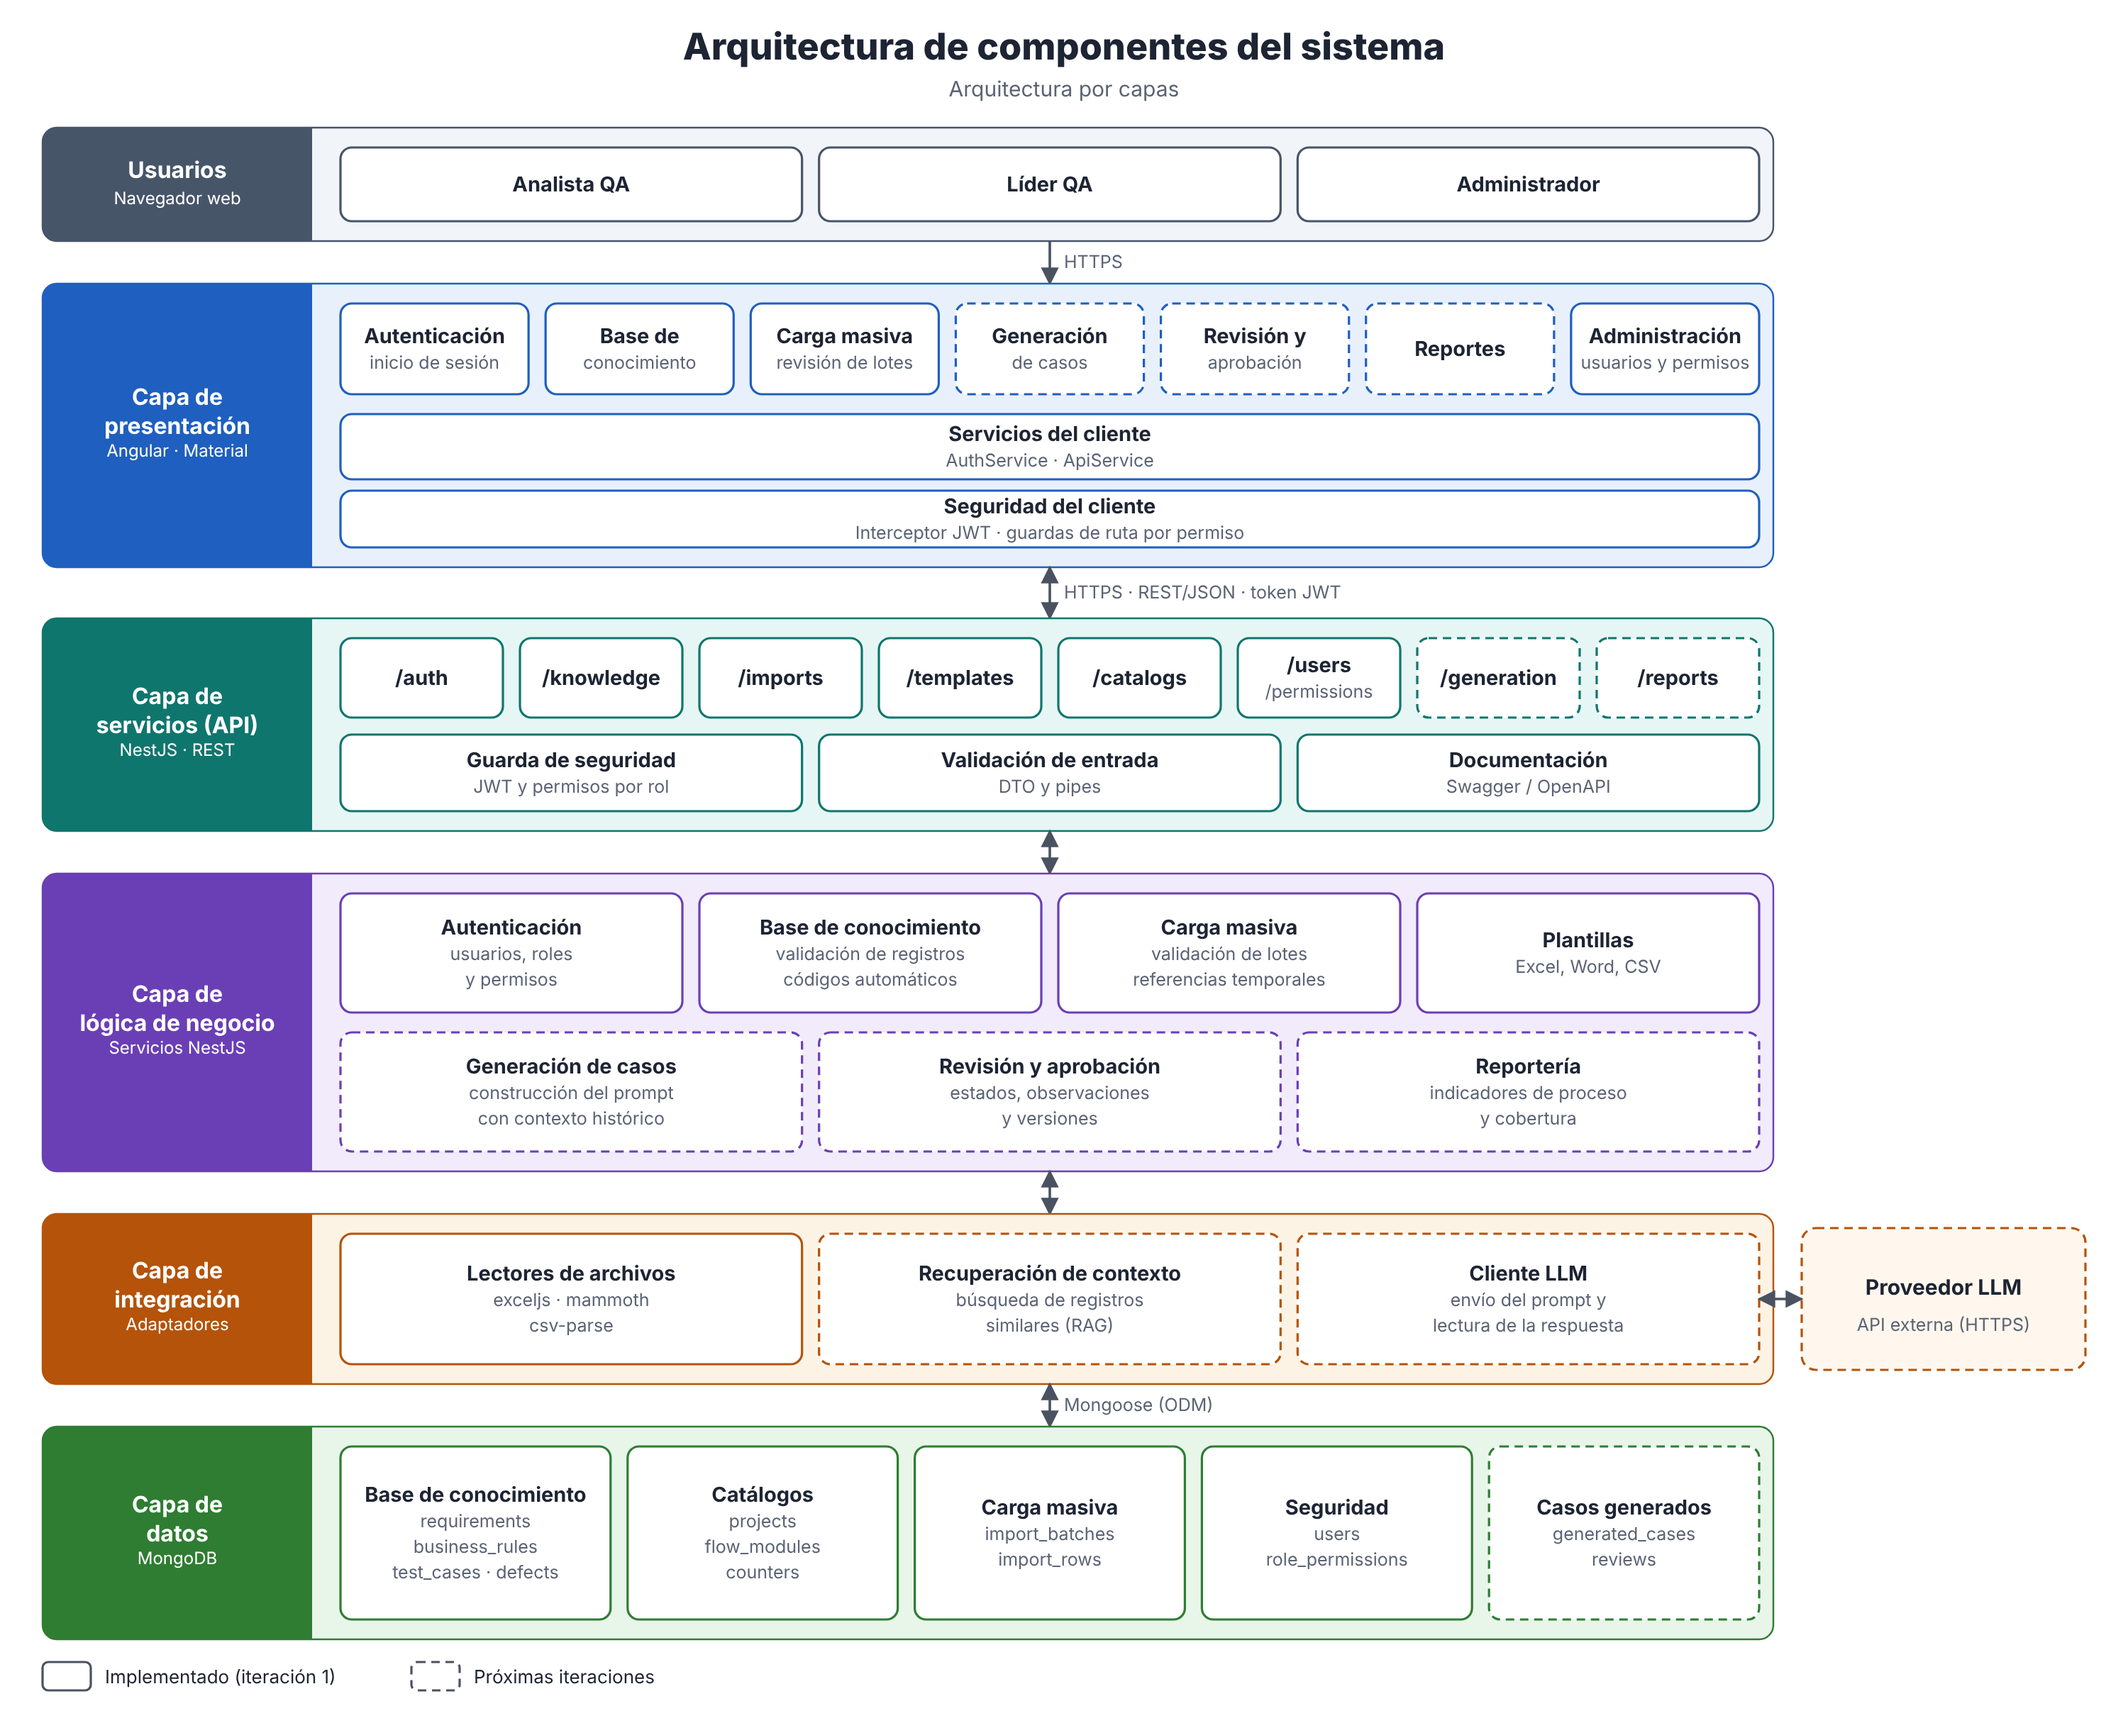
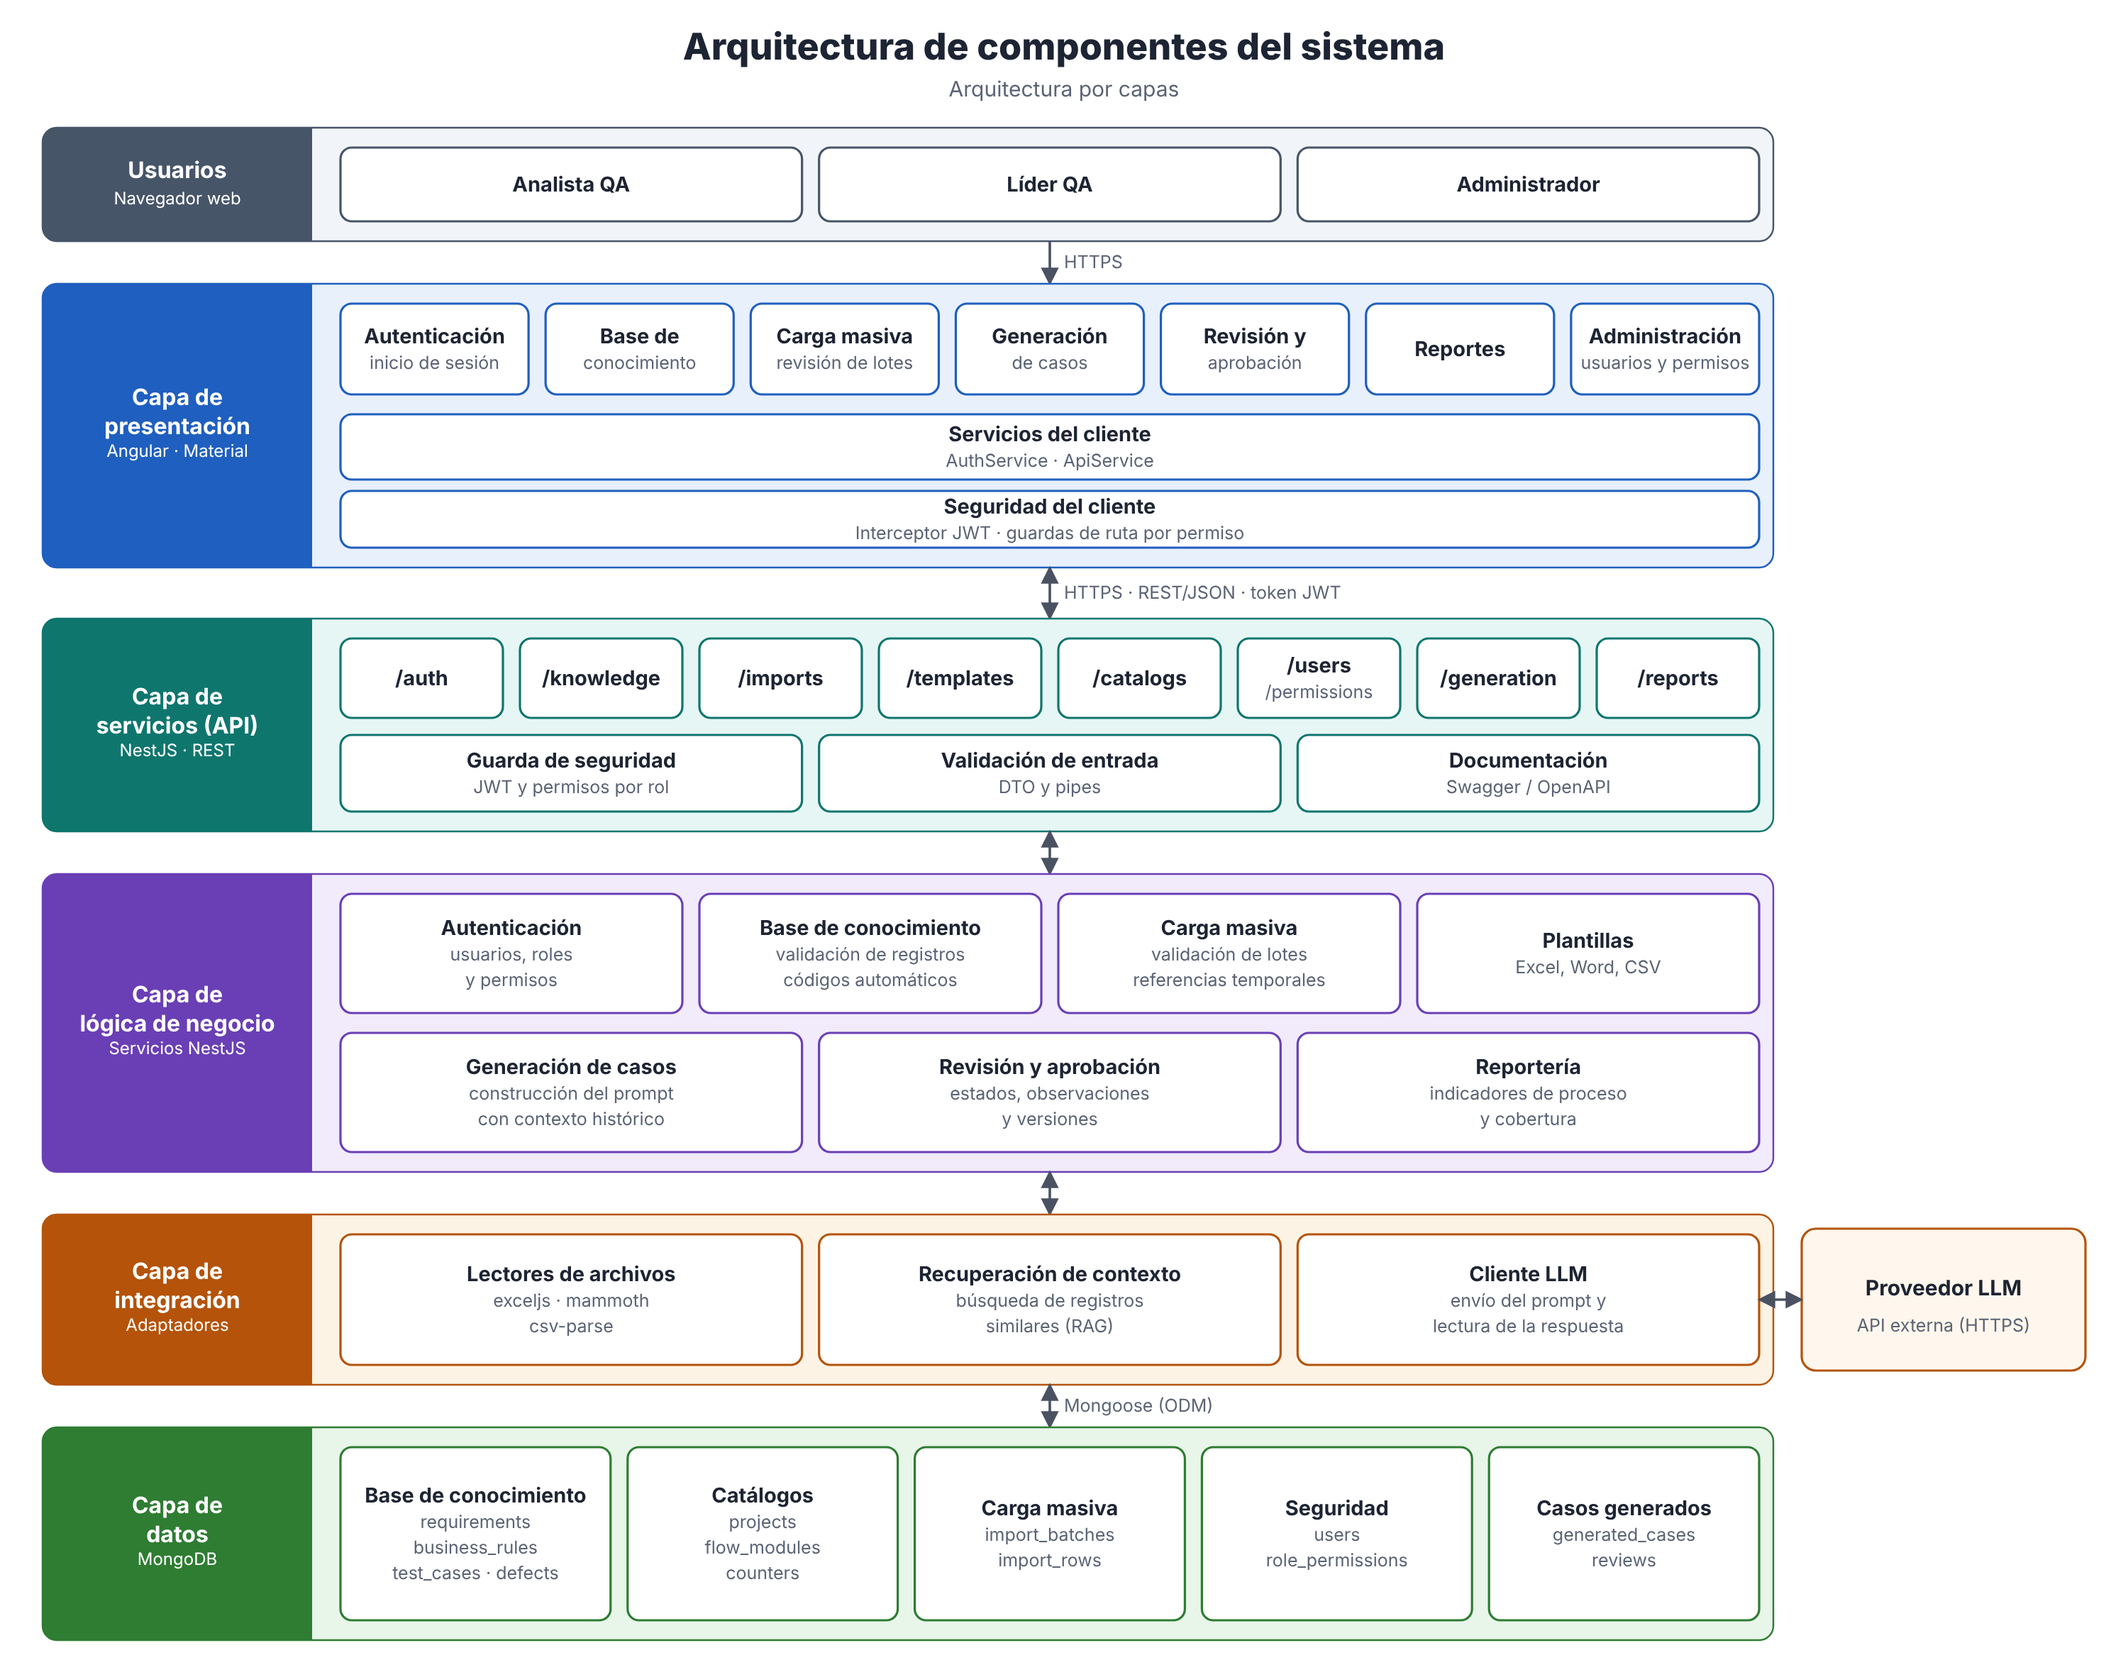
Arquitectura técnica descrita con el sistema completo
Se quitan las marcas de iteraciones (estados, bordes punteados y leyendas)
del documento y de las figuras de arquitectura.

Claude-Session: https://claude.ai/code/session_017cdL5eLtRdD6eBNrnasQw3

Changed region(s): [[0.0, 0.0312, 0.961, 0.9983], [0.031, 0.5615, 0.124, 0.6239], [0.031, 0.2184, 0.124, 0.2808]]

diff --git a/docs/arquitectura-tecnica.md b/docs/arquitectura-tecnica.md
@@ -24,23 +24,23 @@ conocimiento real del equipo de QA y no solo de su conocimiento general.
 
 ### Flujo conceptual de la solución
 
-| Paso | Etapa | Descripción | Estado |
-|---|---|---|---|
-| 1 | Ingesta | Registro individual con formularios y carga masiva desde Excel, Word y CSV, con un lote en revisión antes de guardar. | Implementado |
-| 2 | Base de conocimiento | Requerimientos (REQ), reglas de negocio (RN), casos de prueba (CP) y defectos (DEF) validados, con código automático, relaciones entre registros y origen (archivo y lote). | Implementado |
-| 3 | Recuperación de contexto | Selección de los registros del proyecto y módulo/flujo, más los relacionados y similares, hasta el límite de tokens del modelo. | Próxima iteración |
-| 4 | Construcción del *prompt* | Plantilla de instrucciones, contexto recuperado, técnicas de diseño pedidas (partición de equivalencia, valores límite, tabla de decisión, etc.) y esquema JSON de salida. | Próxima iteración |
-| 5 | Generación con LLM | Llamada HTTPS al proveedor del LLM. La respuesta se valida contra el esquema antes de mostrarla. | Próxima iteración |
-| 6 | Revisión | El Analista QA edita los casos, registra observaciones o pide una regeneración con esas observaciones. | Próxima iteración |
-| 7 | Aprobación | El Líder QA aprueba los casos o los devuelve con observaciones. Cada cambio de estado guarda su autor y fecha. | Próxima iteración |
-| 8 | Exportación y reportes | Exportación de los casos aprobados e indicadores de cobertura. Los casos aprobados vuelven a la base de conocimiento. | Próxima iteración |
+| Paso | Etapa | Descripción |
+|---|---|---|
+| 1 | Ingesta | Registro individual con formularios y carga masiva desde Excel, Word y CSV, con un lote en revisión antes de guardar. |
+| 2 | Base de conocimiento | Requerimientos (REQ), reglas de negocio (RN), casos de prueba (CP) y defectos (DEF) validados, con código automático, relaciones entre registros y origen (archivo y lote). |
+| 3 | Recuperación de contexto | Selección de los registros del proyecto y módulo/flujo, más los relacionados y similares, hasta el límite de tokens del modelo. |
+| 4 | Construcción del *prompt* | Plantilla de instrucciones, contexto recuperado, técnicas de diseño pedidas (partición de equivalencia, valores límite, tabla de decisión, etc.) y esquema JSON de salida. |
+| 5 | Generación con LLM | Llamada HTTPS al proveedor del LLM. La respuesta se valida contra el esquema antes de mostrarla. |
+| 6 | Revisión | El Analista QA edita los casos, registra observaciones o pide una regeneración con esas observaciones. |
+| 7 | Aprobación | El Líder QA aprueba los casos o los devuelve con observaciones. Cada cambio de estado guarda su autor y fecha. |
+| 8 | Exportación y reportes | Exportación de los casos aprobados e indicadores de cobertura. Los casos aprobados vuelven a la base de conocimiento. |
 
 ### Componentes de la solución
 
 | Elemento | Tecnología | Responsabilidad |
 |---|---|---|
 | Aplicación web (capa de presentación) | Angular 20 + Angular Material | Interfaz en español, menú según el rol, formularios dinámicos, carga de archivos y revisión de lotes. |
-| API REST (capas de servicios y negocio) | NestJS 11 sobre Node.js 22 (TypeScript) | Autenticación JWT, autorización por rol y módulo, validación, base de conocimiento, carga masiva, plantillas y, después, la generación con LLM. |
+| API REST (capas de servicios y negocio) | NestJS 11 sobre Node.js 22 (TypeScript) | Autenticación JWT, autorización por rol y módulo, validación, base de conocimiento, carga masiva, plantillas, generación con LLM, revisión, aprobación y reportes. |
 | Capa de integración | exceljs, mammoth, csv-parse; cliente HTTP del LLM | Lectura de archivos, recuperación de contexto y comunicación con el proveedor del LLM. |
 | Base de datos | MongoDB 7 (Mongoose como ODM) | Almacenamiento documental de la base de conocimiento, catálogos, lotes, usuarios, permisos y casos generados. |
 | Proveedor LLM | API externa por HTTPS (modelo intercambiable) | Generación del texto de los casos de prueba a partir del *prompt*. |
@@ -258,8 +258,8 @@ Views and Beyond*, 2.ª ed.). Ese enfoque agrupa las vistas en tres tipos según
 | `imports` | Lectura de archivos, lotes en revisión, corrección y confirmación | `knowledge`, `catalogs` |
 | `templates` | Generación de plantillas descargables con ejemplos | `knowledge` (definiciones) |
 | `common` | Guarda de seguridad, decoradores y constantes de acceso | — |
-| `generation` *(próxima)* | Recuperación de contexto (RAG), construcción del *prompt*, cliente LLM y versiones de los casos | `knowledge`, `catalogs` |
-| `reviews` / `reports` *(próxima)* | Observaciones, aprobación e indicadores de cobertura | `generation`, `knowledge` |
+| `generation` | Recuperación de contexto (RAG), construcción del *prompt*, cliente LLM y versiones de los casos | `knowledge`, `catalogs` |
+| `reviews` / `reports` | Observaciones, aprobación e indicadores de cobertura | `generation`, `knowledge` |
 
 #### B.2 Vista de módulos: capas
 
@@ -288,7 +288,7 @@ El sistema usa el estilo **por capas**: cada capa solo usa a la inmediatamente i
 | `counters` | Correlativo atómico por proyecto y tipo de registro | — |
 | `import_batches` / `import_rows` | Lote en revisión y sus filas con estado y errores | lote → filas; filas → registro creado |
 | `users` / `role_permissions` | Usuarios (hash de contraseña, rol, activo) y matriz de permisos | usuario → rol |
-| `generated_cases` / `reviews` *(próxima)* | Casos generados con versión, estado (BORRADOR, EN_REVISIÓN, APROBADO, DEVUELTO), contexto usado y observaciones | → registros de la base de conocimiento |
+| `generated_cases` / `reviews` | Casos generados con versión, estado (BORRADOR, EN_REVISIÓN, APROBADO, DEVUELTO), contexto usado y observaciones | → registros de la base de conocimiento |
 
 Todos los registros de la base de conocimiento guardan `project`, `module`, `code` (único por proyecto), `origin`
 (manual o archivo y lote), `createdBy` y marcas de tiempo.
@@ -365,7 +365,8 @@ Proyecto-UPC/
 │       ├── core/               servicios HTTP, autenticación, interceptor y guardas
 │       ├── layout/             estructura con menú por rol
 │       ├── shared/             formulario dinámico y componentes comunes
-│       └── pages/              login, home, knowledge, imports, catalogs, admin
+│       └── pages/              login, home, knowledge, imports, catalogs,
+│                               generation, reviews, reports, admin
 ├── backend/                    contenedor "API REST" (NestJS)
 │   └── src/
 │       ├── common/             guarda global, decoradores, constantes de acceso
@@ -373,7 +374,9 @@ Proyecto-UPC/
 │       ├── catalogs/
 │       ├── knowledge/          definitions/ (fuente única), validation/, códigos
 │       ├── imports/            parsers/ (excel, word, csv), lotes y filas
-│       └── templates/
+│       ├── templates/
+│       ├── generation/         rag/ (contexto), prompt/, llm/ (adaptador del proveedor)
+│       └── reviews/ reports/   revisión, aprobación e indicadores
 └── docs/                       documentación y figuras de arquitectura
 ```
 
@@ -402,18 +405,18 @@ Proyecto-UPC/
 
 #### C.3 Trazabilidad entre atributos de calidad y elementos de la arquitectura
 
-| Escenario | Elementos de la arquitectura que lo satisfacen | Estado |
-|---|---|---|
-| ESC-01 Seguridad | `AuthGuard`, módulo `permissions`, guardas de ruta Angular, bcrypt, JWT | Implementado |
-| ESC-02 Trazabilidad | `timestamps`, `createdBy`, `origin` en registros; lotes de carga | Implementado (versionado de casos: próxima) |
-| ESC-03 Integridad | `ValidationPipe`, `record-validator`, lotes en revisión (`import_batches`, `import_rows`) | Implementado |
-| ESC-04 Modificabilidad LLM | Cliente LLM como adaptador; configuración por variables de entorno | Diseñado |
-| ESC-05 Modificabilidad datos | `entity-definitions.ts` (fuente única) | Implementado |
-| ESC-06 Disponibilidad | Reintentos, tiempo límite, independencia de los módulos | Diseñado |
-| ESC-07 Rendimiento | Índices de MongoDB, paginación, carga diferida, límite de contexto | Implementado (límite de contexto: próxima) |
-| ESC-08 Usabilidad | Revisión de lotes, plantillas con ejemplos, códigos automáticos | Implementado |
-| ESC-09 Desplegabilidad | Dockerfiles, docker compose, configuración por entorno | Implementado |
-| ESC-10 Calidad de la salida | Validación por esquema JSON, verificación de referencias, revisión y aprobación | Diseñado |
+| Escenario | Elementos de la arquitectura que lo satisfacen |
+|---|---|
+| ESC-01 Seguridad | `AuthGuard`, módulo `permissions`, guardas de ruta Angular, bcrypt, JWT |
+| ESC-02 Trazabilidad | `timestamps`, `createdBy`, `origin` en registros; lotes de carga; versiones y estados de los casos generados |
+| ESC-03 Integridad | `ValidationPipe`, `record-validator`, lotes en revisión (`import_batches`, `import_rows`) |
+| ESC-04 Modificabilidad LLM | Cliente LLM como adaptador; configuración por variables de entorno |
+| ESC-05 Modificabilidad datos | `entity-definitions.ts` (fuente única) |
+| ESC-06 Disponibilidad | Reintentos, tiempo límite, independencia de los módulos |
+| ESC-07 Rendimiento | Índices de MongoDB, paginación, carga diferida, límite de contexto |
+| ESC-08 Usabilidad | Revisión de lotes, plantillas con ejemplos, códigos automáticos |
+| ESC-09 Desplegabilidad | Dockerfiles, docker compose, configuración por entorno |
+| ESC-10 Calidad de la salida | Validación por esquema JSON, verificación de referencias, revisión y aprobación |
 
 #### C.4 Registro de decisiones de arquitectura (ADR)
 
@@ -424,8 +427,8 @@ Proyecto-UPC/
 | ADR-03 | Autenticación con JWT y autorización con matriz configurable | Aceptada | API sin estado de sesión; el usuario se recarga en cada petición para aplicar cambios al instante |
 | ADR-04 | Definición única de entidades | Aceptada | Menos duplicación; los cambios de campos se hacen en un solo archivo |
 | ADR-05 | Carga masiva con área de preparación (lote en revisión) | Aceptada | Ningún dato inválido llega a la base de conocimiento; añade un paso de confirmación |
-| ADR-06 | Generación con RAG sobre un LLM externo detrás de un adaptador | Propuesta (iteración 2) | Sin entrenamiento propio; depende de la disponibilidad y el costo del proveedor; mitigado con reintentos y adaptador |
-| ADR-07 | Revisión y aprobación humana obligatoria | Propuesta (iteración 2) | Controla las alucinaciones del LLM; añade tiempo de revisión al proceso |
+| ADR-06 | Generación con RAG sobre un LLM externo detrás de un adaptador | Aceptada | Sin entrenamiento propio; depende de la disponibilidad y el costo del proveedor; mitigado con reintentos y adaptador |
+| ADR-07 | Revisión y aprobación humana obligatoria | Aceptada | Controla las alucinaciones del LLM; añade tiempo de revisión al proceso |
 | ADR-08 | Despliegue en contenedores Docker | Aceptada | Mismo artefacto en local y en la nube |
 
 ---
